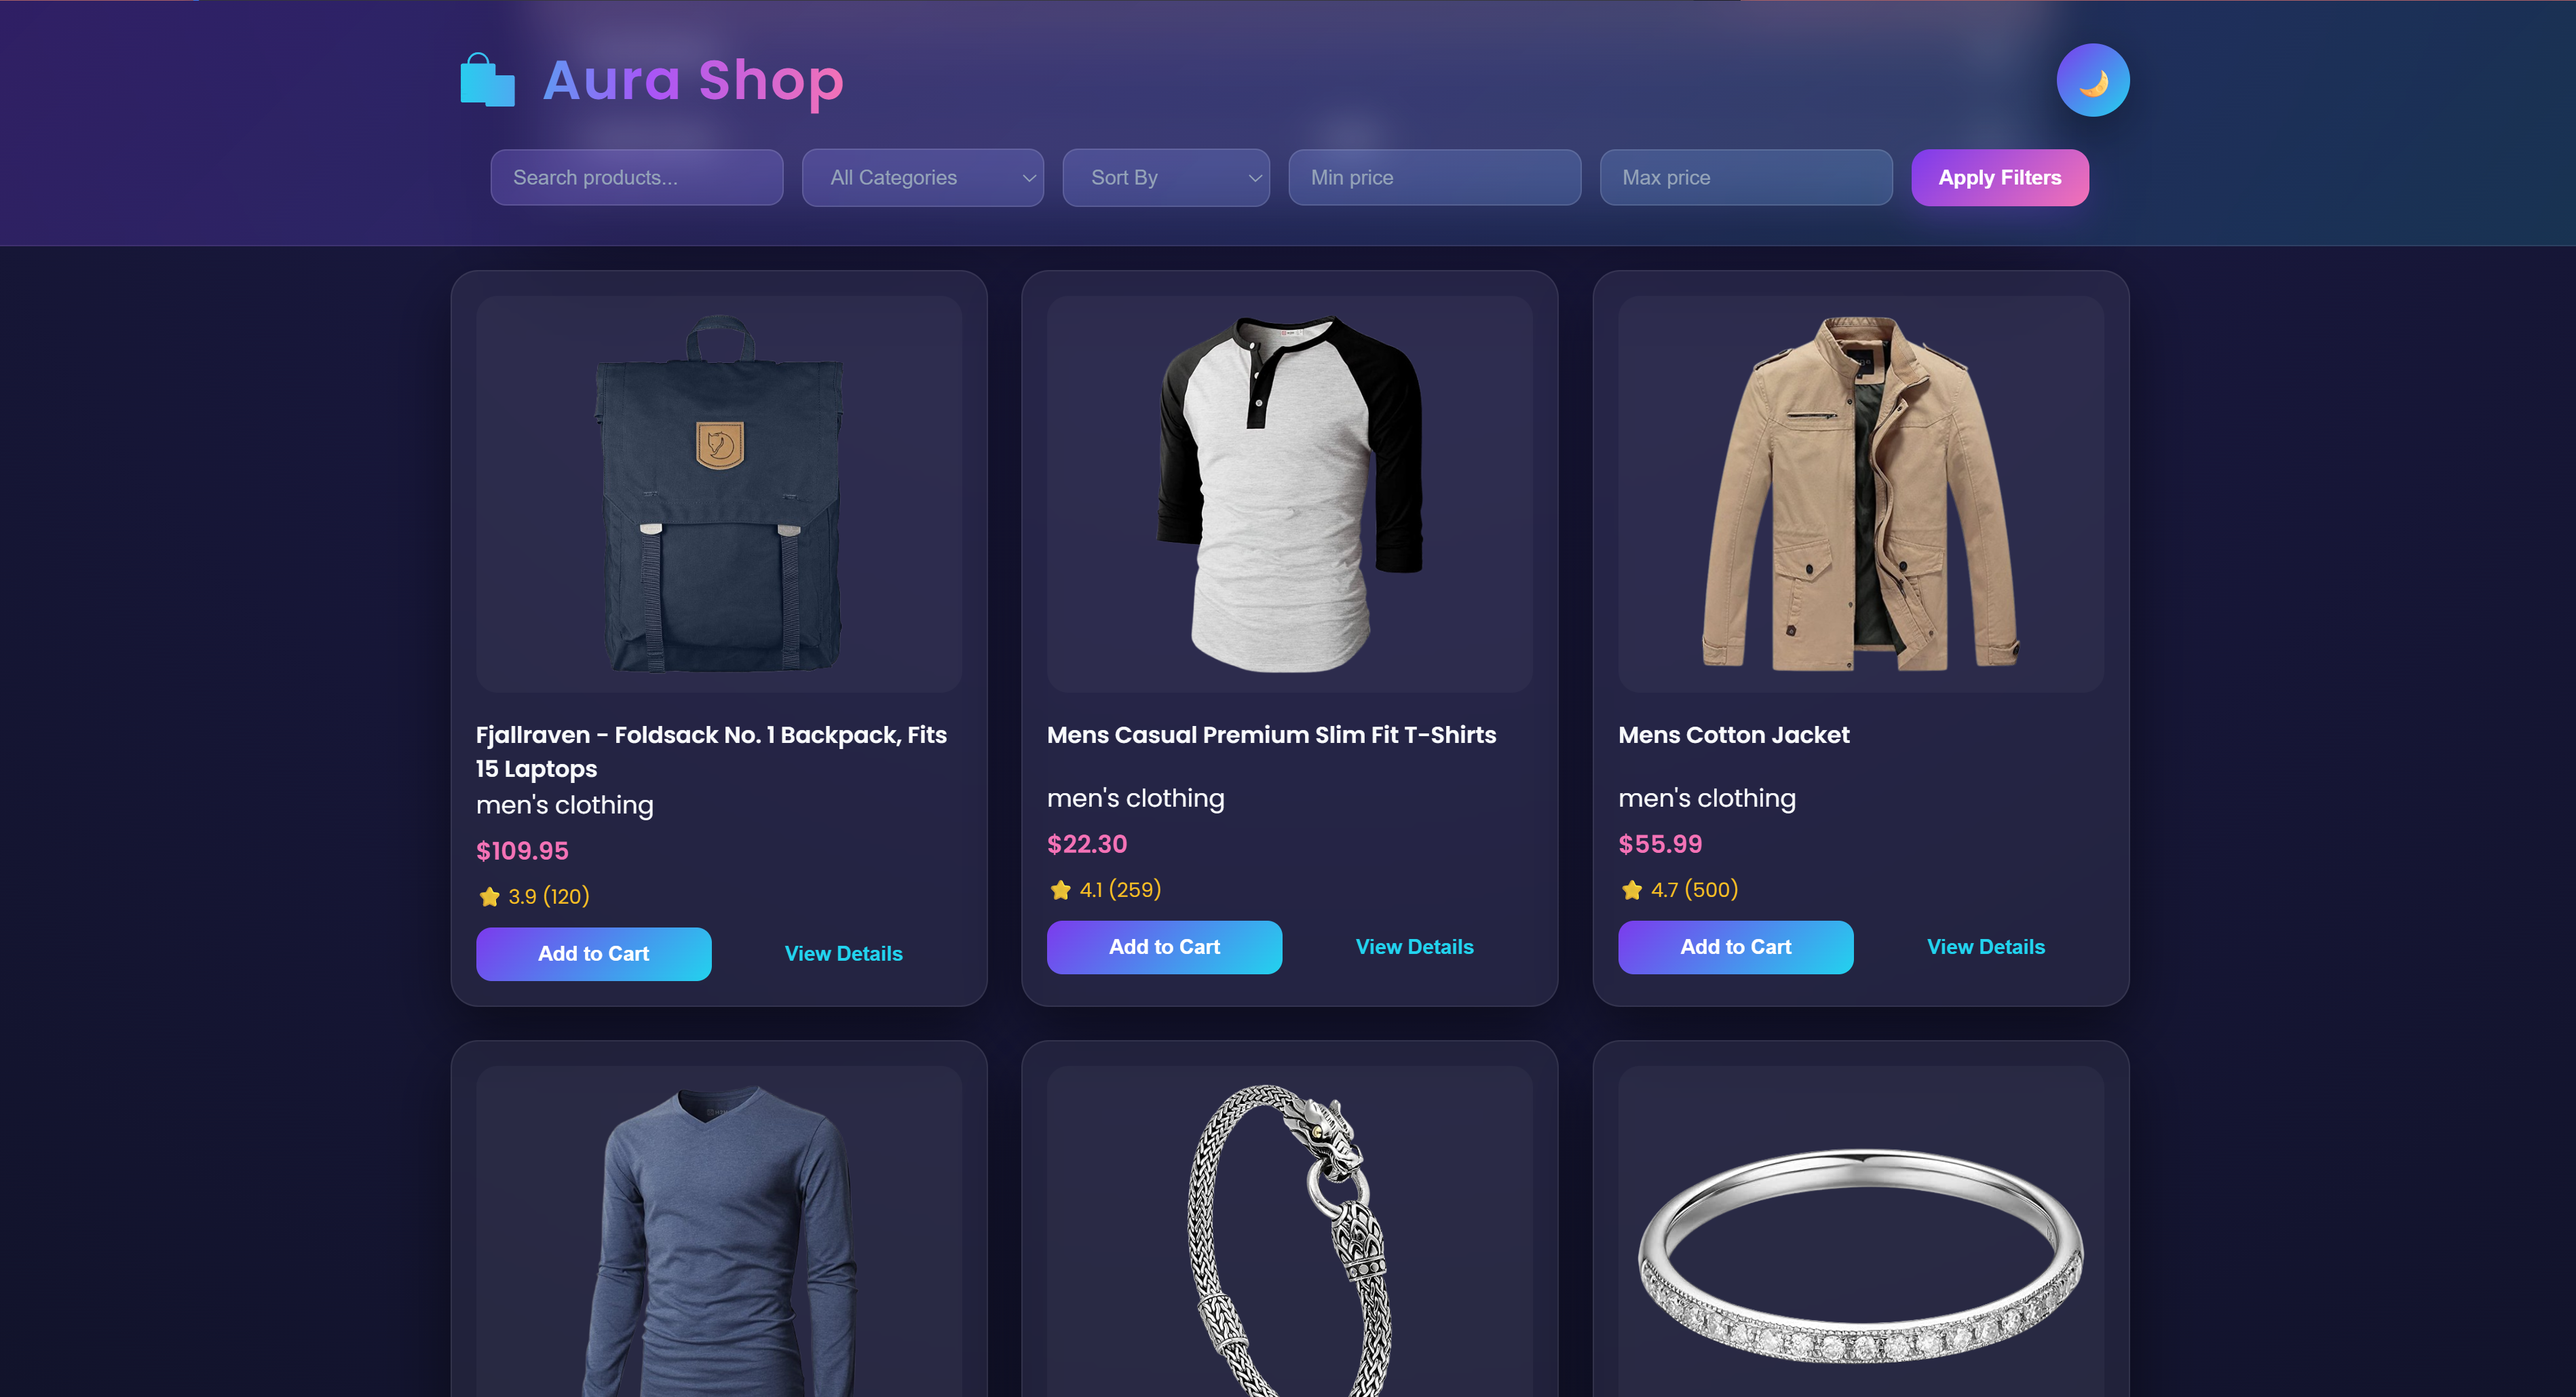
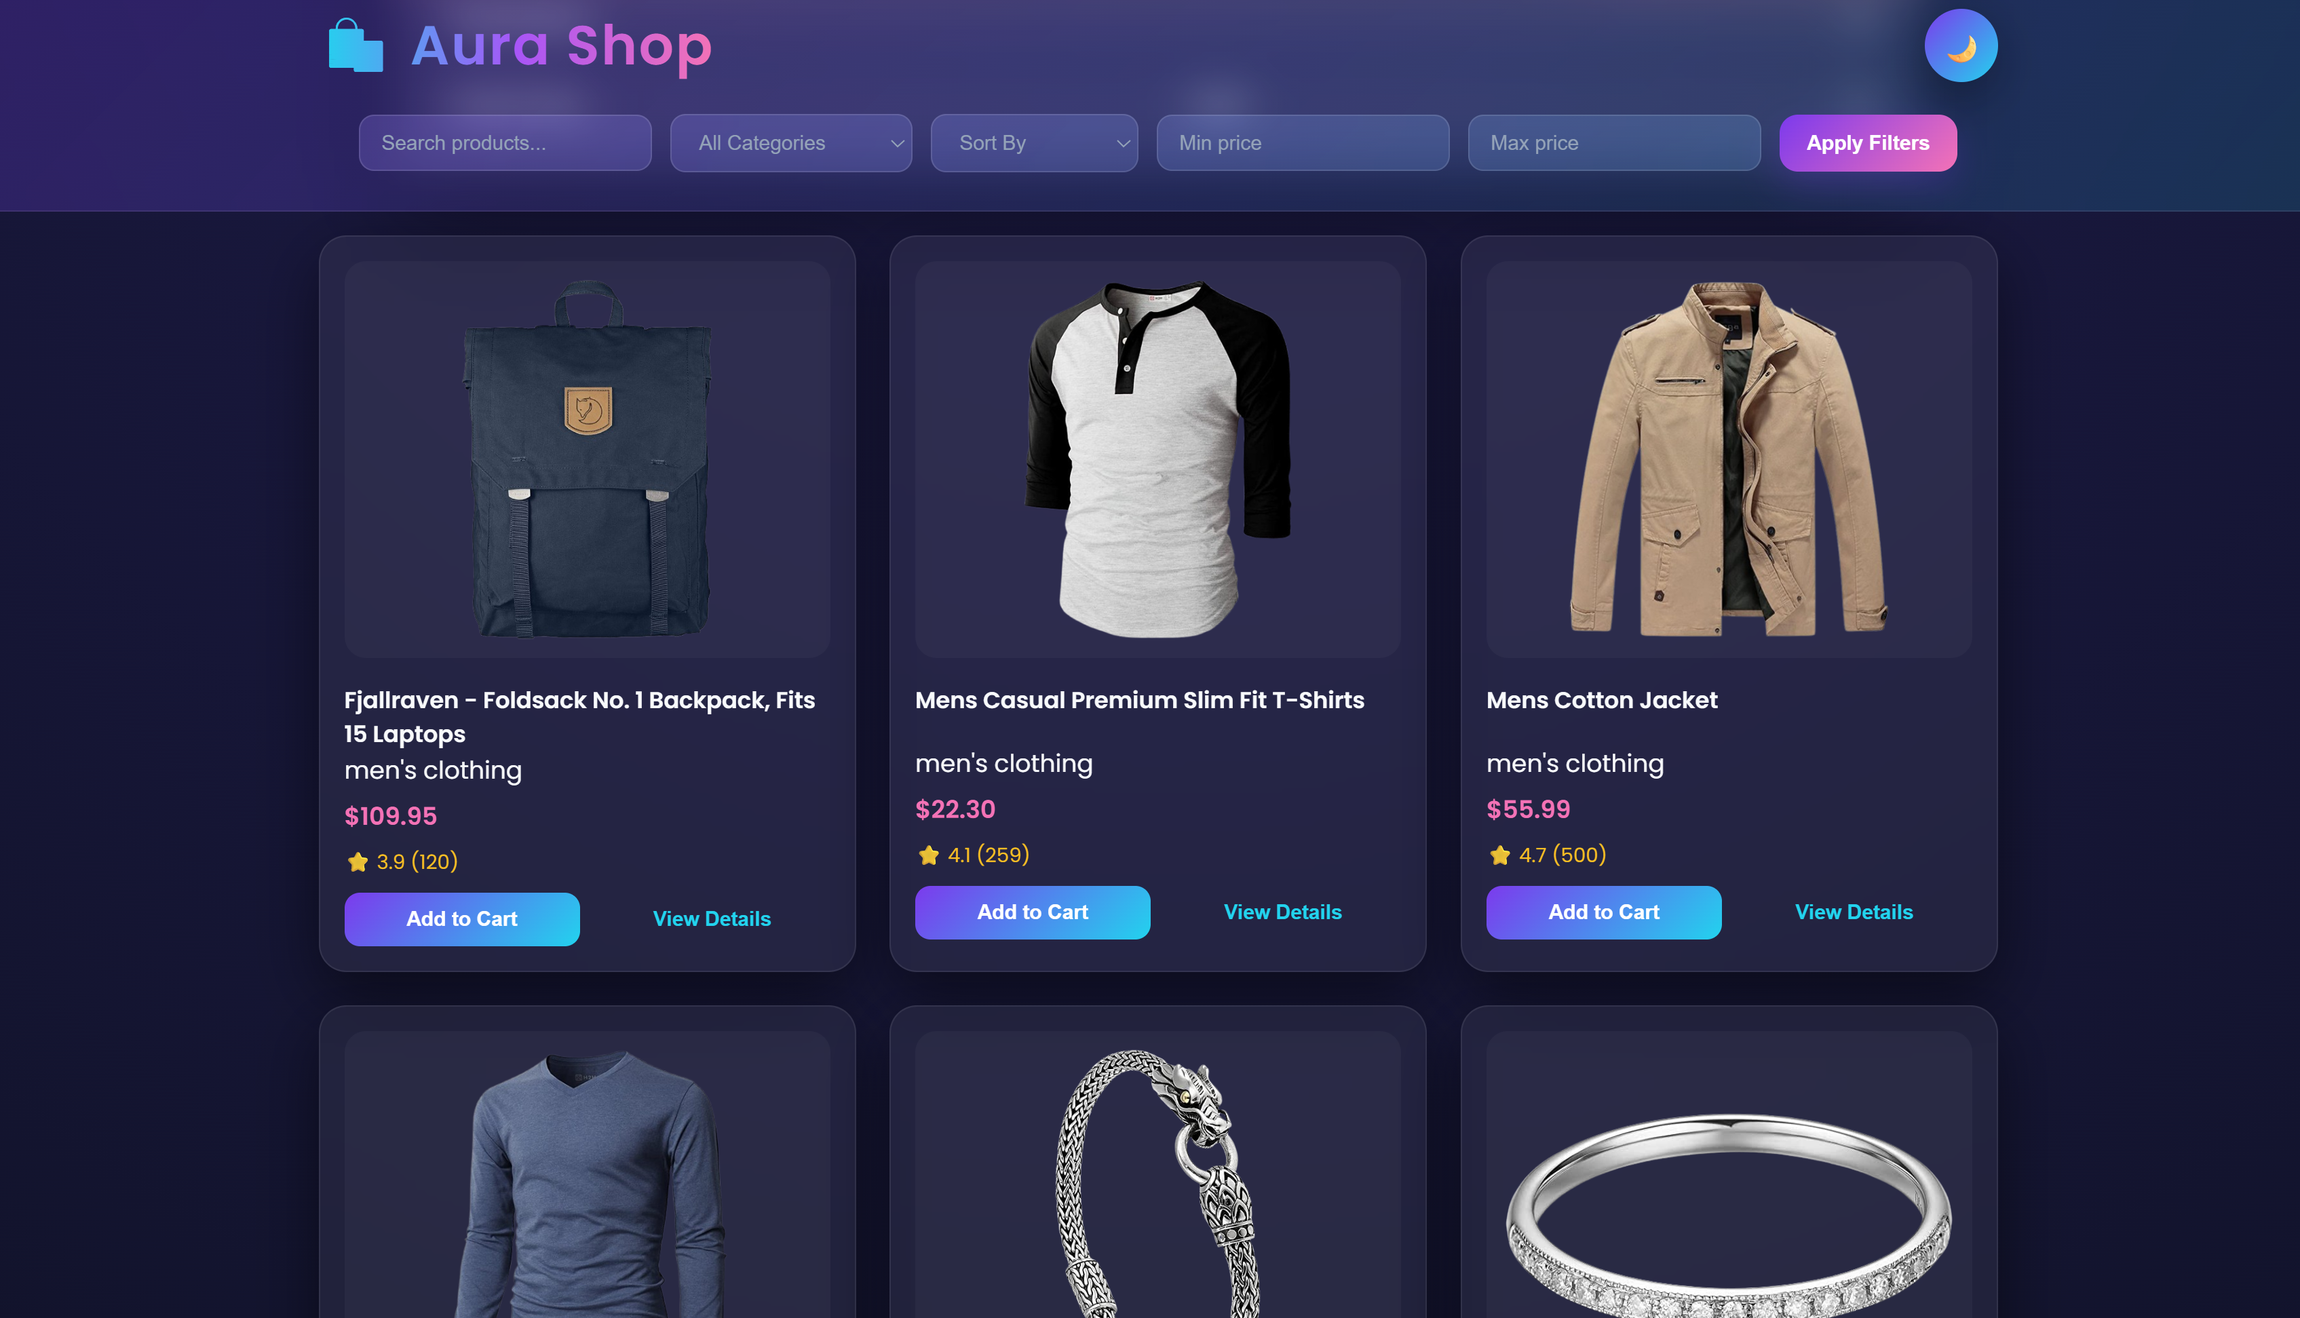
update section image

diff --git a/index.html b/index.html
@@ -357,7 +357,7 @@
             </a>
         </div>
     </div>
-       <div class="project-card">
+       <!-- <div class="project-card">
         <div class="project-image">
             <img src="./img/Shop Brand.png" alt="Shop Brand Website" loading="lazy">
         </div>
@@ -395,7 +395,7 @@
                 View Project <i class="fas fa-arrow-right"></i>
             </a>
         </div>
-    </div>
+    </div> -->
     <div class="project-card">
         <div class="project-image">
             <img src="./img/The Coffee Vibe.png" alt="Coffee Shop Website" loading="lazy">
